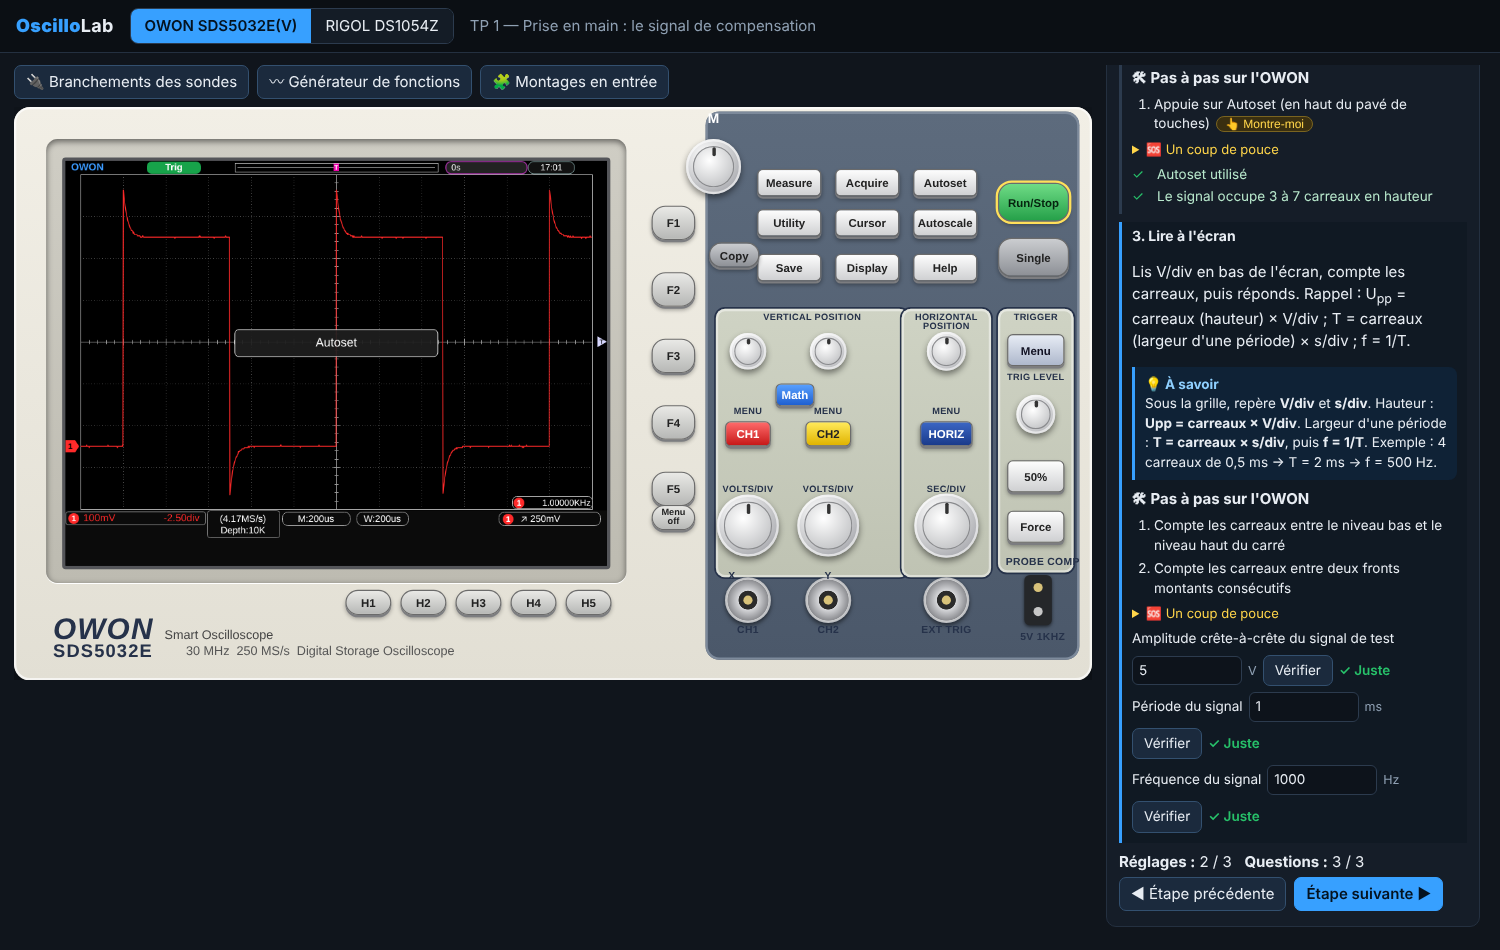
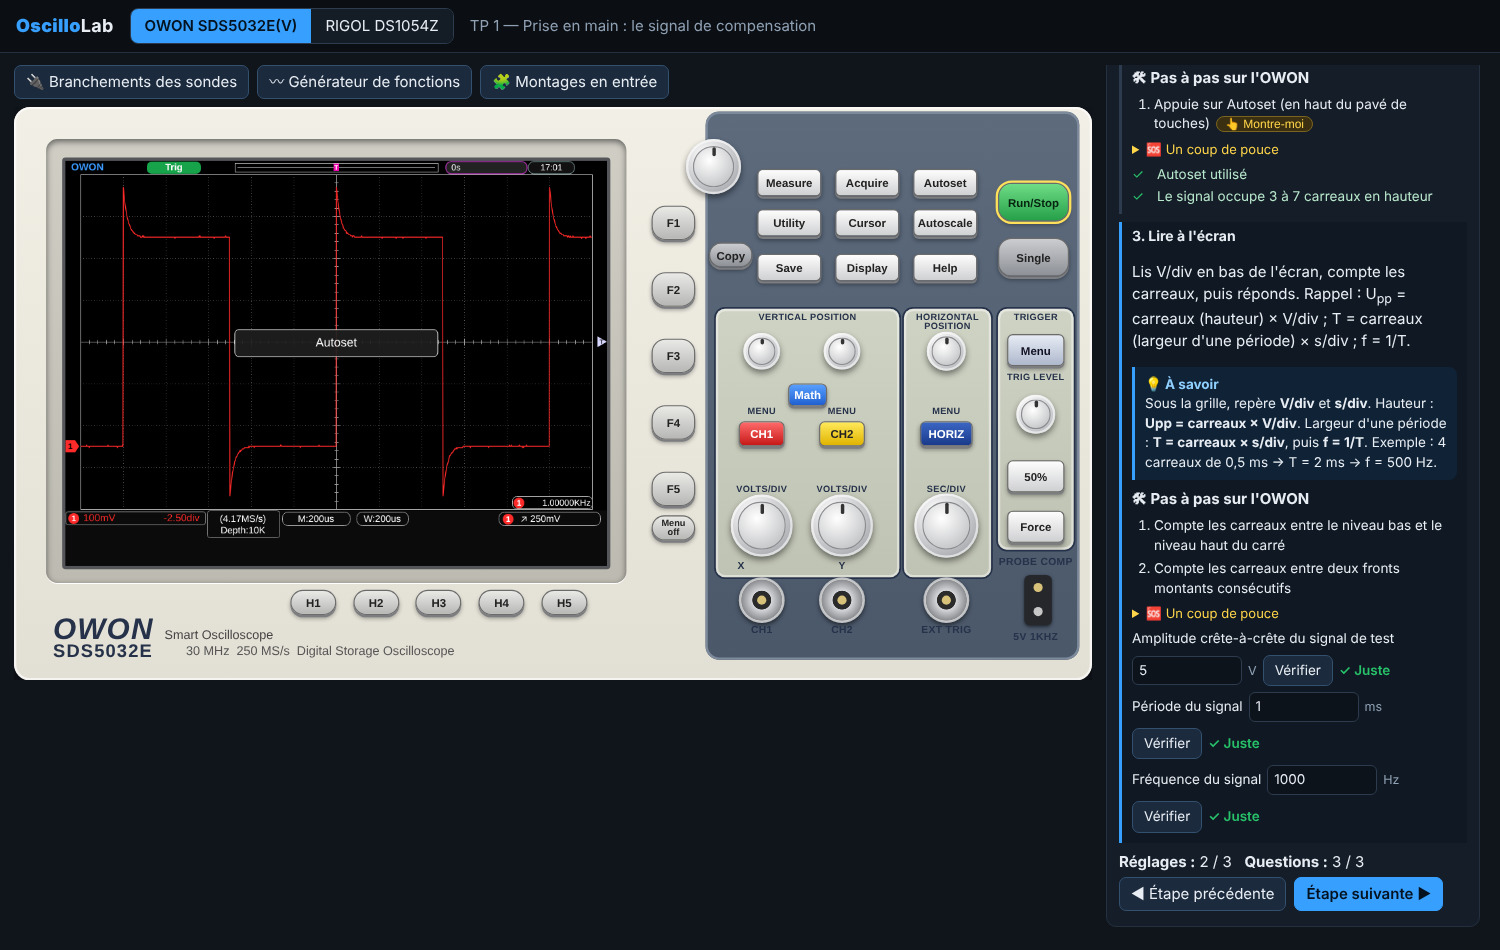
Alignement des boutons : flèches du RIGOL, zones OWON, touches H/F alignées sur les menus de l'écran
Claude-Session: https://claude.ai/code/session_018Ln2Xo12prChdSPrkdSn9D

diff --git a/dist/oscillolab.html b/dist/oscillolab.html
@@ -985,15 +985,14 @@ OL.OwonUI = function (root, S) {
 
   /* touches H et F */
   const hk = [], fk = [];
-  for (let i = 0; i < 5; i++) hk.push(OL.Key(box, { x: 303 + i * 48 - 20 + 6, y: 421, w: 40, h: 22, label: 'H' + (i + 1), cls: 'round', on: () => pressH(i) }));
+  for (let i = 0; i < 5; i++) hk.push(OL.Key(box, { x: 241 + 54.7 * i, y: 421, w: 40, h: 22, label: 'H' + (i + 1), cls: 'round', on: () => pressH(i) }));
   for (let i = 0; i < 5; i++) fk.push(OL.Key(box, { x: 556, y: 90 + i * 58 - 4, w: 38, h: 30, label: 'F' + (i + 1), cls: 'round', on: () => pressF(i) }));
-  OL.Key(box, { x: 556, y: 347, w: 38, h: 22, label: 'Menu<br>off', cls: 'round tiny', on: () => { U.menu = null; U.open = -1; } });
+  OL.Key(box, { x: 556, y: 356, w: 38, h: 22, label: 'Menu<br>off', cls: 'round tiny', on: () => { U.menu = null; U.open = -1; } });
 
   /* panneau de commande */
   E('div', 'o-zone', box, { left: '603px', top: '4px', width: '326px', height: '478px' });
   const mk = (x, y, label, cls, fn, w, h) => OL.Key(box, { x, y, w: w || 56, h: h || 24, label, cls, on: fn });
   OL.Knob(box, { x: 610, y: 52, r: 24, cls: 'bigk', label: 'M', ly: -9999, turn: n => mKnob(n), push: () => mPush() });
-  OL.Label(box, 596, 3, 'M', 'm-label', 28);
   const kx = [648, 716, 784], ky = [66, 101, 142];
   const bk = {};
   bk.measure = mk(kx[0], ky[0] - 12, 'Measure', 'white', () => openMenu('measure'));
@@ -1005,33 +1004,33 @@ OL.OwonUI = function (root, S) {
   bk.save = mk(kx[0], ky[2] - 14, 'Save', 'white', () => openMenu('save'));
   bk.display = mk(kx[1], ky[2] - 14, 'Display', 'white', () => openMenu('display'));
   bk.help = mk(kx[2], ky[2] - 14, 'Help', 'white', () => { U.help = !U.help; });
-  mk(606, 118, 'Copy', 'grey round', () => copyShot(), 44, 22);
+  mk(606, 118, 'Copy', 'grey round', () => copyShot(), 38, 22);
   bk.run = OL.Key(box, { x: 858, y: 66, w: 62, h: 34, label: 'Run/Stop', cls: 'green round', on: () => { st.run = !st.run; if (st.run) st.single = false; } });
   bk.single = OL.Key(box, { x: 858, y: 114, w: 62, h: 34, label: 'Single', cls: 'grey round', on: () => { S.arm(); } });
 
   /* zone verticale */
-  E('div', 'o-vert', box, { left: '612px', top: '176px', width: '168px', height: '234px' });
-  OL.Label(box, 612, 180, 'VERTICAL POSITION', 'zl', 168);
+  E('div', 'o-vert', box, { left: '612px', top: '176px', width: '160px', height: '234px' });
+  OL.Label(box, 612, 180, 'VERTICAL POSITION', 'zl', 160);
   const kpos = [], kv = [];
   for (let i = 0; i < 2; i++) {
-    const x = 640 + i * 70;
+    const x = 652 + i * 70;
     kpos.push(OL.Knob(box, { x, y: 213, r: 16, cls: 'smk', turn: n => vpos(i, n), push: () => vposPush(i) }));
     OL.Label(box, x - 30, 262, 'MENU', 'zl', 60);
     bk['ch' + i] = OL.Key(box, { x: x - 20, y: 274, w: 40, h: 22, label: 'CH' + (i + 1), cls: i ? 'ch2' : 'ch1', on: () => chKey(i) });
     OL.Label(box, x - 30, 330, 'VOLTS/DIV', 'zl', 60);
     kv.push(OL.Knob(box, { x, y: 365, r: 27, cls: 'bigk', turn: n => vdiv(i, n), push: () => {} }));
   }
-  bk.math = OL.Key(box, { x: 664, y: 241, w: 34, h: 20, label: 'Math', cls: 'blue', on: () => { st.math.on = !st.math.on; if (st.math.on) openMenu('math'); } });
+  bk.math = OL.Key(box, { x: 675, y: 241, w: 34, h: 20, label: 'Math', cls: 'blue', on: () => { st.math.on = !st.math.on; if (st.math.on) openMenu('math'); } });
   /* zone horizontale */
-  E('div', 'o-hor', box, { left: '774px', top: '176px', width: '78px', height: '234px' });
-  OL.Label(box, 774, 180, 'HORIZONTAL POSITION', 'zl', 78);
+  E('div', 'o-hor', box, { left: '776px', top: '176px', width: '76px', height: '234px' });
+  OL.Label(box, 776, 180, 'HORIZONTAL POSITION', 'zl', 76);
   OL.Knob(box, { x: 813, y: 213, r: 17, cls: 'smk', turn: n => { st.hdelay += n * S.tdiv() / 25 * (-1); st.hdelay = hclamp(st.hdelay); }, push: () => { st.hdelay = 0; } });
   OL.Label(box, 783, 262, 'MENU', 'zl', 60);
   bk.horiz = OL.Key(box, { x: 790, y: 274, w: 46, h: 22, label: 'HORIZ', cls: 'darkblue', on: () => openMenu('horiz') });
   OL.Label(box, 783, 330, 'SEC/DIV', 'zl', 60);
   OL.Knob(box, { x: 813, y: 365, r: 28, cls: 'bigk', turn: n => tdiv(n), push: () => {} });
   /* déclenchement */
-  E('div', 'o-trg', box, { left: '858px', top: '176px', width: '66px', height: '230px' });
+  E('div', 'o-trg', box, { left: '858px', top: '176px', width: '66px', height: '210px' });
   OL.Label(box, 858, 180, 'Trigger', 'zl', 66);
   bk.trigmenu = OL.Key(box, { x: 866, y: 198, w: 50, h: 28, label: 'Menu', cls: 'darkblue2', on: () => openMenu('trig') });
   OL.Label(box, 858, 232, 'TRIG LEVEL', 'zl', 66);
@@ -1040,12 +1039,12 @@ OL.OwonUI = function (root, S) {
   bk.force = OL.Key(box, { x: 866, y: 352, w: 50, h: 28, label: 'Force', cls: 'white', on: () => S.force() });
   /* BNC */
   const bnc = (x, y, t) => { E('div', 'bnc', box, { left: (x - 20) + 'px', top: (y - 20) + 'px' }, '<i></i>'); OL.Label(box, x - 30, y + 22, t, 'zl dark', 60); };
-  bnc(640, 430, 'CH1'); bnc(710, 430, 'CH2'); bnc(813, 430, 'EXT TRIG');
-  OL.Label(box, 616, 405, 'X', 'zl dark', 20); OL.Label(box, 700, 405, 'Y', 'zl dark', 20);
-  OL.Label(box, 852, 392, 'PROBE COMP', 'zl dark', 90);
+  bnc(652, 430, 'CH1'); bnc(722, 430, 'CH2'); bnc(813, 430, 'EXT TRIG');
+  OL.Label(box, 626, 396, 'X', 'zl dark', 16); OL.Label(box, 714, 396, 'Y', 'zl dark', 16);
+  OL.Label(box, 855, 392, 'PROBE COMP', 'zl dark', 72);
   E('div', 'comp-term', box, { left: '881px', top: '408px' }, '<i class="pin"></i><i class="gnd"></i>');
-  OL.Label(box, 852, 458, '5V&nbsp;1kHz', 'zl dark', 90);
-  U.bnc = { ch: [{ x: 640, y: 430 }, { x: 710, y: 430 }], comp: { x: 893, y: 422 }, gnd: { x: 893, y: 443 } };
+  OL.Label(box, 855, 458, '5V&nbsp;1kHz', 'zl dark', 72);
+  U.bnc = { ch: [{ x: 652, y: 430 }, { x: 722, y: 430 }], comp: { x: 893, y: 422 }, gnd: { x: 893, y: 443 } };
 
   /* ===== logique des commandes ===== */
   function hclamp(v) { const lim = 6 * S.tdiv() * 50; return Math.max(-lim, Math.min(lim, v)); }
@@ -1269,8 +1268,8 @@ OL.OwonUI = function (root, S) {
     if (U.open >= 0 && items[U.open] && items[U.open].opts) {
       const it = items[U.open]; let opts = typeof it.opts === 'function' ? it.opts() : it.opts; let first = 0;
       if (opts.length > 5) { first = U.page * 4; const show = opts.slice(first, first + 4); show.push({ t: 'Page ' + (U.page + 1) + '/' + Math.ceil(opts.length / 4) + ' ▼' }); opts = show; first = 0; }
-      opts.forEach((o, k) => { const y = 82 + k * 58 - 4; const g = c.createLinearGradient(0, y, 0, y + 52); g.addColorStop(0, '#2a74c8'); g.addColorStop(1, '#0d3a78'); OL.rrect(c, 690, y, 108, 52, 6, g, '#aee', 1);
-        const t = typeof o.t === 'function' ? o.t() : o.t; const parts = String(t).split('<br>'); parts.forEach((p, q) => OL.text(c, p, 744, y + 26 + (q - (parts.length - 1) / 2) * 17, { size: 15, align: 'center' })); });
+      opts.forEach((o, k) => { const y = 53 + k * 97; const g = c.createLinearGradient(0, y, 0, y + 84); g.addColorStop(0, '#2a74c8'); g.addColorStop(1, '#0d3a78'); OL.rrect(c, 690, y, 108, 84, 6, g, '#aee', 1);
+        const t = typeof o.t === 'function' ? o.t() : o.t; const parts = String(t).split('<br>'); parts.forEach((p, q) => OL.text(c, p, 744, y + 42 + (q - (parts.length - 1) / 2) * 18, { size: 16, align: 'center' })); });
     }
   }
   /* repères des commandes (pour le bouton « Montre-moi » des TP) */
@@ -1309,17 +1308,17 @@ OL.RigolUI = function (root, S) {
   /* touches programmables */
   const sk = [];
   const mkSoft = (side, i) => {
-    const x = side === 'l' ? 28 : 676, y = 86 + i * 44;
+    const x = side === 'l' ? 28 : 676, y = 82 + i * 44;
     return OL.Key(box, { x, y, w: 46, h: 30, label: '', cls: 'rkey ' + (side === 'l' ? 'soft' : 'softr'), on: () => (side === 'l' ? pressQM(i) : pressSoft(i)) });
   };
   const rs = [], ls = [];
   for (let i = 0; i < 6; i++) { ls.push(mkSoft('l', i)); rs.push(mkSoft('r', i)); }
-  OL.Key(box, { x: 28, y: 44, w: 46, h: 26, label: 'MENU', cls: 'rkey arrow', on: () => { U.qm = U.qm === null ? 0 : (U.qm === 0 ? 1 : null); U.qmPage = 0; } });
-  OL.Key(box, { x: 676, y: 44, w: 46, h: 26, label: '▲', cls: 'rkey arrow', on: () => { U.page = Math.max(0, U.page - 1); } });
-  OL.Key(box, { x: 676, y: 352, w: 46, h: 26, label: '▼', cls: 'rkey arrow', on: () => { U.page = U.page + 1; } });
+  OL.Key(box, { x: 28, y: 40, w: 46, h: 30, label: 'MENU', cls: 'rkey arrow', on: () => { U.qm = U.qm === null ? 0 : (U.qm === 0 ? 1 : null); U.qmPage = 0; } });
+  OL.Key(box, { x: 676, y: 40, w: 46, h: 30, label: '▲', cls: 'rkey arrow', on: () => { U.page = Math.max(0, U.page - 1); } });
+  OL.Key(box, { x: 676, y: 340, w: 46, h: 30, label: '▼', cls: 'rkey arrow', on: () => { U.page = U.page + 1; } });
   const qmN = () => Math.ceil((U.qm === 1 ? OL.RIGOL_V : OL.RIGOL_H).length / 6);
-  OL.Key(box, { x: 28, y: 336, w: 46, h: 22, label: '▲', cls: 'rkey arrow', on: () => { U.qmPage = Math.max(0, (U.qmPage || 0) - 1); } });
-  OL.Key(box, { x: 28, y: 362, w: 46, h: 22, label: '▼', cls: 'rkey arrow', on: () => { U.qmPage = Math.min(qmN() - 1, (U.qmPage || 0) + 1); } });
+  OL.Key(box, { x: 28, y: 340, w: 46, h: 20, label: '▲', cls: 'rkey arrow', on: () => { U.qmPage = Math.max(0, (U.qmPage || 0) - 1); } });
+  OL.Key(box, { x: 28, y: 364, w: 46, h: 20, label: '▼', cls: 'rkey arrow', on: () => { U.qmPage = Math.min(qmN() - 1, (U.qmPage || 0) + 1); } });
 
   const K = (x, y, w, h, label, cls, fn) => OL.Key(box, { x, y, w, h, label, cls: 'rkey ' + cls, on: fn });
   /* rangée du haut */
@@ -1342,15 +1341,15 @@ OL.RigolUI = function (root, S) {
   for (let i = 0; i < 4; i++) {
     const k = K(738, 186 + i * 36, 46, 26, 'CH' + (i + 1), 'ring', () => chKey(i)); k.style.borderColor = cols[i]; k.style.boxShadow = '0 0 0 1px ' + cols[i] + ', 0 2px 0 #14161a'; chk.push(k);
   }
-  K(800, 336, 40, 24, 'MATH', 'ring', () => openMenu('math'));
-  K(850, 336, 40, 24, 'REF', 'ring', () => msg('REF : non simulé'));
+  K(796, 254, 40, 24, 'MATH', 'ring', () => openMenu('math'));
+  K(846, 254, 40, 24, 'REF', 'ring', () => msg('REF : forme d\'onde de référence non simulée'));
   OL.Knob(box, { x: 830, y: 218, r: 22, cls: 'rk', turn: n => vpos(n), push: () => { st.ch[U.sel].pos = 0; }, title: 'POSITION' }); OL.Label(box, 800, 242, 'POSITION', 'rl', 60);
-  OL.Knob(box, { x: 850, y: 296, r: 0 + 26, cls: 'rk', turn: n => vdiv(n), push: () => { const c = st.ch[U.sel]; c.fineMode = !c.fineMode; c.fk = c.fineMode ? c.fk : 0; msg(c.fineMode ? 'Volts/Div : réglage fin' : 'Volts/Div : réglage par paliers'); }, title: 'SCALE (appui : fin / paliers)' }); OL.Label(box, 820, 324, 'SCALE', 'rl', 60);
+  OL.Knob(box, { x: 846, y: 322, r: 26, cls: 'rk', turn: n => vdiv(n), push: () => { const c = st.ch[U.sel]; c.fineMode = !c.fineMode; c.fk = c.fineMode ? c.fk : 0; msg(c.fineMode ? 'Volts/Div : réglage fin' : 'Volts/Div : réglage par paliers'); }, title: 'SCALE (appui : fin / paliers)' }); OL.Label(box, 816, 351, 'SCALE', 'rl', 60);
   /* HORIZONTAL */
   E('div', 'r-zone', box, { left: '908px', top: '172px', width: '92px', height: '210px' }); OL.Label(box, 910, 164, 'HORIZONTAL', 'rl', 90);
-  OL.Knob(box, { x: 946, y: 206, r: 20, cls: 'rk', turn: n => { st.hdelay -= n * S.tdiv() / 25; st.hdelay = Math.max(-60 * S.tdiv(), Math.min(60 * S.tdiv(), st.hdelay)); }, push: () => { st.hdelay = 0; } }); OL.Label(box, 916, 228, 'POSITION', 'rl', 60);
-  K(924, 258, 44, 24, 'MENU', 'light', () => openMenu('horiz'));
-  OL.Knob(box, { x: 946, y: 326, r: 26, cls: 'rk', turn: n => tdiv(n), push: () => { } }); OL.Label(box, 916, 354, 'SCALE', 'rl', 60);
+  OL.Knob(box, { x: 954, y: 206, r: 20, cls: 'rk', turn: n => { st.hdelay -= n * S.tdiv() / 25; st.hdelay = Math.max(-60 * S.tdiv(), Math.min(60 * S.tdiv(), st.hdelay)); }, push: () => { st.hdelay = 0; } }); OL.Label(box, 924, 228, 'POSITION', 'rl', 60);
+  K(932, 258, 44, 24, 'MENU', 'light', () => openMenu('horiz'));
+  OL.Knob(box, { x: 954, y: 326, r: 26, cls: 'rk', turn: n => tdiv(n), push: () => { } }); OL.Label(box, 924, 354, 'SCALE', 'rl', 60);
   /* TRIGGER */
   E('div', 'r-zone', box, { left: '1006px', top: '172px', width: '80px', height: '210px' }); OL.Label(box, 1008, 164, 'TRIGGER', 'rl', 76);
   const bMode = K(1024, 184, 44, 22, 'MODE', 'light', () => { const t = st.trig; t.mode = t.mode === 'auto' ? 'normal' : t.mode === 'normal' ? 'single' : 'auto'; if (t.mode === 'single') S.arm(); });

diff --git a/js/ui_owon.js b/js/ui_owon.js
@@ -27,15 +27,14 @@ OL.OwonUI = function (root, S) {
 
   /* touches H et F */
   const hk = [], fk = [];
-  for (let i = 0; i < 5; i++) hk.push(OL.Key(box, { x: 303 + i * 48 - 20 + 6, y: 421, w: 40, h: 22, label: 'H' + (i + 1), cls: 'round', on: () => pressH(i) }));
+  for (let i = 0; i < 5; i++) hk.push(OL.Key(box, { x: 241 + 54.7 * i, y: 421, w: 40, h: 22, label: 'H' + (i + 1), cls: 'round', on: () => pressH(i) }));
   for (let i = 0; i < 5; i++) fk.push(OL.Key(box, { x: 556, y: 90 + i * 58 - 4, w: 38, h: 30, label: 'F' + (i + 1), cls: 'round', on: () => pressF(i) }));
-  OL.Key(box, { x: 556, y: 347, w: 38, h: 22, label: 'Menu<br>off', cls: 'round tiny', on: () => { U.menu = null; U.open = -1; } });
+  OL.Key(box, { x: 556, y: 356, w: 38, h: 22, label: 'Menu<br>off', cls: 'round tiny', on: () => { U.menu = null; U.open = -1; } });
 
   /* panneau de commande */
   E('div', 'o-zone', box, { left: '603px', top: '4px', width: '326px', height: '478px' });
   const mk = (x, y, label, cls, fn, w, h) => OL.Key(box, { x, y, w: w || 56, h: h || 24, label, cls, on: fn });
   OL.Knob(box, { x: 610, y: 52, r: 24, cls: 'bigk', label: 'M', ly: -9999, turn: n => mKnob(n), push: () => mPush() });
-  OL.Label(box, 596, 3, 'M', 'm-label', 28);
   const kx = [648, 716, 784], ky = [66, 101, 142];
   const bk = {};
   bk.measure = mk(kx[0], ky[0] - 12, 'Measure', 'white', () => openMenu('measure'));
@@ -47,33 +46,33 @@ OL.OwonUI = function (root, S) {
   bk.save = mk(kx[0], ky[2] - 14, 'Save', 'white', () => openMenu('save'));
   bk.display = mk(kx[1], ky[2] - 14, 'Display', 'white', () => openMenu('display'));
   bk.help = mk(kx[2], ky[2] - 14, 'Help', 'white', () => { U.help = !U.help; });
-  mk(606, 118, 'Copy', 'grey round', () => copyShot(), 44, 22);
+  mk(606, 118, 'Copy', 'grey round', () => copyShot(), 38, 22);
   bk.run = OL.Key(box, { x: 858, y: 66, w: 62, h: 34, label: 'Run/Stop', cls: 'green round', on: () => { st.run = !st.run; if (st.run) st.single = false; } });
   bk.single = OL.Key(box, { x: 858, y: 114, w: 62, h: 34, label: 'Single', cls: 'grey round', on: () => { S.arm(); } });
 
   /* zone verticale */
-  E('div', 'o-vert', box, { left: '612px', top: '176px', width: '168px', height: '234px' });
-  OL.Label(box, 612, 180, 'VERTICAL POSITION', 'zl', 168);
+  E('div', 'o-vert', box, { left: '612px', top: '176px', width: '160px', height: '234px' });
+  OL.Label(box, 612, 180, 'VERTICAL POSITION', 'zl', 160);
   const kpos = [], kv = [];
   for (let i = 0; i < 2; i++) {
-    const x = 640 + i * 70;
+    const x = 652 + i * 70;
     kpos.push(OL.Knob(box, { x, y: 213, r: 16, cls: 'smk', turn: n => vpos(i, n), push: () => vposPush(i) }));
     OL.Label(box, x - 30, 262, 'MENU', 'zl', 60);
     bk['ch' + i] = OL.Key(box, { x: x - 20, y: 274, w: 40, h: 22, label: 'CH' + (i + 1), cls: i ? 'ch2' : 'ch1', on: () => chKey(i) });
     OL.Label(box, x - 30, 330, 'VOLTS/DIV', 'zl', 60);
     kv.push(OL.Knob(box, { x, y: 365, r: 27, cls: 'bigk', turn: n => vdiv(i, n), push: () => {} }));
   }
-  bk.math = OL.Key(box, { x: 664, y: 241, w: 34, h: 20, label: 'Math', cls: 'blue', on: () => { st.math.on = !st.math.on; if (st.math.on) openMenu('math'); } });
+  bk.math = OL.Key(box, { x: 675, y: 241, w: 34, h: 20, label: 'Math', cls: 'blue', on: () => { st.math.on = !st.math.on; if (st.math.on) openMenu('math'); } });
   /* zone horizontale */
-  E('div', 'o-hor', box, { left: '774px', top: '176px', width: '78px', height: '234px' });
-  OL.Label(box, 774, 180, 'HORIZONTAL POSITION', 'zl', 78);
+  E('div', 'o-hor', box, { left: '776px', top: '176px', width: '76px', height: '234px' });
+  OL.Label(box, 776, 180, 'HORIZONTAL POSITION', 'zl', 76);
   OL.Knob(box, { x: 813, y: 213, r: 17, cls: 'smk', turn: n => { st.hdelay += n * S.tdiv() / 25 * (-1); st.hdelay = hclamp(st.hdelay); }, push: () => { st.hdelay = 0; } });
   OL.Label(box, 783, 262, 'MENU', 'zl', 60);
   bk.horiz = OL.Key(box, { x: 790, y: 274, w: 46, h: 22, label: 'HORIZ', cls: 'darkblue', on: () => openMenu('horiz') });
   OL.Label(box, 783, 330, 'SEC/DIV', 'zl', 60);
   OL.Knob(box, { x: 813, y: 365, r: 28, cls: 'bigk', turn: n => tdiv(n), push: () => {} });
   /* déclenchement */
-  E('div', 'o-trg', box, { left: '858px', top: '176px', width: '66px', height: '230px' });
+  E('div', 'o-trg', box, { left: '858px', top: '176px', width: '66px', height: '210px' });
   OL.Label(box, 858, 180, 'Trigger', 'zl', 66);
   bk.trigmenu = OL.Key(box, { x: 866, y: 198, w: 50, h: 28, label: 'Menu', cls: 'darkblue2', on: () => openMenu('trig') });
   OL.Label(box, 858, 232, 'TRIG LEVEL', 'zl', 66);
@@ -82,12 +81,12 @@ OL.OwonUI = function (root, S) {
   bk.force = OL.Key(box, { x: 866, y: 352, w: 50, h: 28, label: 'Force', cls: 'white', on: () => S.force() });
   /* BNC */
   const bnc = (x, y, t) => { E('div', 'bnc', box, { left: (x - 20) + 'px', top: (y - 20) + 'px' }, '<i></i>'); OL.Label(box, x - 30, y + 22, t, 'zl dark', 60); };
-  bnc(640, 430, 'CH1'); bnc(710, 430, 'CH2'); bnc(813, 430, 'EXT TRIG');
-  OL.Label(box, 616, 405, 'X', 'zl dark', 20); OL.Label(box, 700, 405, 'Y', 'zl dark', 20);
-  OL.Label(box, 852, 392, 'PROBE COMP', 'zl dark', 90);
+  bnc(652, 430, 'CH1'); bnc(722, 430, 'CH2'); bnc(813, 430, 'EXT TRIG');
+  OL.Label(box, 626, 396, 'X', 'zl dark', 16); OL.Label(box, 714, 396, 'Y', 'zl dark', 16);
+  OL.Label(box, 855, 392, 'PROBE COMP', 'zl dark', 72);
   E('div', 'comp-term', box, { left: '881px', top: '408px' }, '<i class="pin"></i><i class="gnd"></i>');
-  OL.Label(box, 852, 458, '5V&nbsp;1kHz', 'zl dark', 90);
-  U.bnc = { ch: [{ x: 640, y: 430 }, { x: 710, y: 430 }], comp: { x: 893, y: 422 }, gnd: { x: 893, y: 443 } };
+  OL.Label(box, 855, 458, '5V&nbsp;1kHz', 'zl dark', 72);
+  U.bnc = { ch: [{ x: 652, y: 430 }, { x: 722, y: 430 }], comp: { x: 893, y: 422 }, gnd: { x: 893, y: 443 } };
 
   /* ===== logique des commandes ===== */
   function hclamp(v) { const lim = 6 * S.tdiv() * 50; return Math.max(-lim, Math.min(lim, v)); }
@@ -311,8 +310,8 @@ OL.OwonUI = function (root, S) {
     if (U.open >= 0 && items[U.open] && items[U.open].opts) {
       const it = items[U.open]; let opts = typeof it.opts === 'function' ? it.opts() : it.opts; let first = 0;
       if (opts.length > 5) { first = U.page * 4; const show = opts.slice(first, first + 4); show.push({ t: 'Page ' + (U.page + 1) + '/' + Math.ceil(opts.length / 4) + ' ▼' }); opts = show; first = 0; }
-      opts.forEach((o, k) => { const y = 82 + k * 58 - 4; const g = c.createLinearGradient(0, y, 0, y + 52); g.addColorStop(0, '#2a74c8'); g.addColorStop(1, '#0d3a78'); OL.rrect(c, 690, y, 108, 52, 6, g, '#aee', 1);
-        const t = typeof o.t === 'function' ? o.t() : o.t; const parts = String(t).split('<br>'); parts.forEach((p, q) => OL.text(c, p, 744, y + 26 + (q - (parts.length - 1) / 2) * 17, { size: 15, align: 'center' })); });
+      opts.forEach((o, k) => { const y = 53 + k * 97; const g = c.createLinearGradient(0, y, 0, y + 84); g.addColorStop(0, '#2a74c8'); g.addColorStop(1, '#0d3a78'); OL.rrect(c, 690, y, 108, 84, 6, g, '#aee', 1);
+        const t = typeof o.t === 'function' ? o.t() : o.t; const parts = String(t).split('<br>'); parts.forEach((p, q) => OL.text(c, p, 744, y + 42 + (q - (parts.length - 1) / 2) * 18, { size: 16, align: 'center' })); });
     }
   }
   /* repères des commandes (pour le bouton « Montre-moi » des TP) */

diff --git a/js/ui_rigol.js b/js/ui_rigol.js
@@ -20,17 +20,17 @@ OL.RigolUI = function (root, S) {
   /* touches programmables */
   const sk = [];
   const mkSoft = (side, i) => {
-    const x = side === 'l' ? 28 : 676, y = 86 + i * 44;
+    const x = side === 'l' ? 28 : 676, y = 82 + i * 44;
     return OL.Key(box, { x, y, w: 46, h: 30, label: '', cls: 'rkey ' + (side === 'l' ? 'soft' : 'softr'), on: () => (side === 'l' ? pressQM(i) : pressSoft(i)) });
   };
   const rs = [], ls = [];
   for (let i = 0; i < 6; i++) { ls.push(mkSoft('l', i)); rs.push(mkSoft('r', i)); }
-  OL.Key(box, { x: 28, y: 44, w: 46, h: 26, label: 'MENU', cls: 'rkey arrow', on: () => { U.qm = U.qm === null ? 0 : (U.qm === 0 ? 1 : null); U.qmPage = 0; } });
-  OL.Key(box, { x: 676, y: 44, w: 46, h: 26, label: '▲', cls: 'rkey arrow', on: () => { U.page = Math.max(0, U.page - 1); } });
-  OL.Key(box, { x: 676, y: 352, w: 46, h: 26, label: '▼', cls: 'rkey arrow', on: () => { U.page = U.page + 1; } });
+  OL.Key(box, { x: 28, y: 40, w: 46, h: 30, label: 'MENU', cls: 'rkey arrow', on: () => { U.qm = U.qm === null ? 0 : (U.qm === 0 ? 1 : null); U.qmPage = 0; } });
+  OL.Key(box, { x: 676, y: 40, w: 46, h: 30, label: '▲', cls: 'rkey arrow', on: () => { U.page = Math.max(0, U.page - 1); } });
+  OL.Key(box, { x: 676, y: 340, w: 46, h: 30, label: '▼', cls: 'rkey arrow', on: () => { U.page = U.page + 1; } });
   const qmN = () => Math.ceil((U.qm === 1 ? OL.RIGOL_V : OL.RIGOL_H).length / 6);
-  OL.Key(box, { x: 28, y: 336, w: 46, h: 22, label: '▲', cls: 'rkey arrow', on: () => { U.qmPage = Math.max(0, (U.qmPage || 0) - 1); } });
-  OL.Key(box, { x: 28, y: 362, w: 46, h: 22, label: '▼', cls: 'rkey arrow', on: () => { U.qmPage = Math.min(qmN() - 1, (U.qmPage || 0) + 1); } });
+  OL.Key(box, { x: 28, y: 340, w: 46, h: 20, label: '▲', cls: 'rkey arrow', on: () => { U.qmPage = Math.max(0, (U.qmPage || 0) - 1); } });
+  OL.Key(box, { x: 28, y: 364, w: 46, h: 20, label: '▼', cls: 'rkey arrow', on: () => { U.qmPage = Math.min(qmN() - 1, (U.qmPage || 0) + 1); } });
 
   const K = (x, y, w, h, label, cls, fn) => OL.Key(box, { x, y, w, h, label, cls: 'rkey ' + cls, on: fn });
   /* rangée du haut */
@@ -53,15 +53,15 @@ OL.RigolUI = function (root, S) {
   for (let i = 0; i < 4; i++) {
     const k = K(738, 186 + i * 36, 46, 26, 'CH' + (i + 1), 'ring', () => chKey(i)); k.style.borderColor = cols[i]; k.style.boxShadow = '0 0 0 1px ' + cols[i] + ', 0 2px 0 #14161a'; chk.push(k);
   }
-  K(800, 336, 40, 24, 'MATH', 'ring', () => openMenu('math'));
-  K(850, 336, 40, 24, 'REF', 'ring', () => msg('REF : non simulé'));
+  K(796, 254, 40, 24, 'MATH', 'ring', () => openMenu('math'));
+  K(846, 254, 40, 24, 'REF', 'ring', () => msg('REF : forme d\'onde de référence non simulée'));
   OL.Knob(box, { x: 830, y: 218, r: 22, cls: 'rk', turn: n => vpos(n), push: () => { st.ch[U.sel].pos = 0; }, title: 'POSITION' }); OL.Label(box, 800, 242, 'POSITION', 'rl', 60);
-  OL.Knob(box, { x: 850, y: 296, r: 0 + 26, cls: 'rk', turn: n => vdiv(n), push: () => { const c = st.ch[U.sel]; c.fineMode = !c.fineMode; c.fk = c.fineMode ? c.fk : 0; msg(c.fineMode ? 'Volts/Div : réglage fin' : 'Volts/Div : réglage par paliers'); }, title: 'SCALE (appui : fin / paliers)' }); OL.Label(box, 820, 324, 'SCALE', 'rl', 60);
+  OL.Knob(box, { x: 846, y: 322, r: 26, cls: 'rk', turn: n => vdiv(n), push: () => { const c = st.ch[U.sel]; c.fineMode = !c.fineMode; c.fk = c.fineMode ? c.fk : 0; msg(c.fineMode ? 'Volts/Div : réglage fin' : 'Volts/Div : réglage par paliers'); }, title: 'SCALE (appui : fin / paliers)' }); OL.Label(box, 816, 351, 'SCALE', 'rl', 60);
   /* HORIZONTAL */
   E('div', 'r-zone', box, { left: '908px', top: '172px', width: '92px', height: '210px' }); OL.Label(box, 910, 164, 'HORIZONTAL', 'rl', 90);
-  OL.Knob(box, { x: 946, y: 206, r: 20, cls: 'rk', turn: n => { st.hdelay -= n * S.tdiv() / 25; st.hdelay = Math.max(-60 * S.tdiv(), Math.min(60 * S.tdiv(), st.hdelay)); }, push: () => { st.hdelay = 0; } }); OL.Label(box, 916, 228, 'POSITION', 'rl', 60);
-  K(924, 258, 44, 24, 'MENU', 'light', () => openMenu('horiz'));
-  OL.Knob(box, { x: 946, y: 326, r: 26, cls: 'rk', turn: n => tdiv(n), push: () => { } }); OL.Label(box, 916, 354, 'SCALE', 'rl', 60);
+  OL.Knob(box, { x: 954, y: 206, r: 20, cls: 'rk', turn: n => { st.hdelay -= n * S.tdiv() / 25; st.hdelay = Math.max(-60 * S.tdiv(), Math.min(60 * S.tdiv(), st.hdelay)); }, push: () => { st.hdelay = 0; } }); OL.Label(box, 924, 228, 'POSITION', 'rl', 60);
+  K(932, 258, 44, 24, 'MENU', 'light', () => openMenu('horiz'));
+  OL.Knob(box, { x: 954, y: 326, r: 26, cls: 'rk', turn: n => tdiv(n), push: () => { } }); OL.Label(box, 924, 354, 'SCALE', 'rl', 60);
   /* TRIGGER */
   E('div', 'r-zone', box, { left: '1006px', top: '172px', width: '80px', height: '210px' }); OL.Label(box, 1008, 164, 'TRIGGER', 'rl', 76);
   const bMode = K(1024, 184, 44, 22, 'MODE', 'light', () => { const t = st.trig; t.mode = t.mode === 'auto' ? 'normal' : t.mode === 'normal' ? 'single' : 'auto'; if (t.mode === 'single') S.arm(); });
